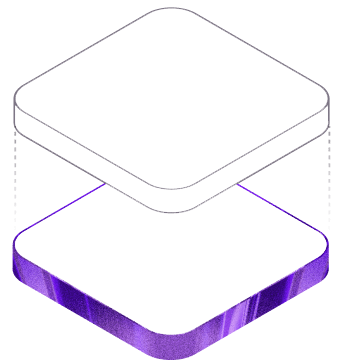
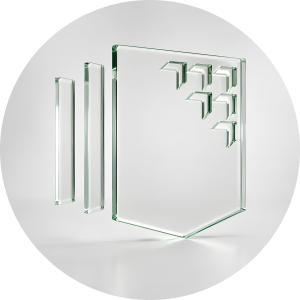
add hero section

diff --git a/src/components/Hero/index.tsx b/src/components/Hero/index.tsx
@@ -1,0 +1,42 @@
+import heroBackdrop from '~/assets/hero-backdrop.png'
+import heroImage from '~/assets/hero.png'
+import PlayIcon from '~/assets/play.svg?react'
+import config from './config'
+
+export const HeroSection = () => {
+  return (
+    <section
+      className="col-2 grid grid-cols-[minmax(auto,min(100%,900px))_auto] 
+      grid-rows-[minmax(100px,1fr)_auto_1fr_auto_1fr] items-center justify-between gap-4"
+    >
+      <h1 className="row-2 animate-enter [animation-delay:200ms] font-title text-8xl [&_em]:text-bronze [&_em]:not-italic">
+        {config.text.hero}
+      </h1>
+
+      <div className="row-2 grid animate-enter grid-cols-[minmax(40px,150px)_auto] items-center gap-4 [animation-delay:500ms]">
+        <img src={heroImage} alt="" className="w-full" />
+        <div className="font-title text-4xl">{config.text.motto}</div>
+        <div className="col-span-full grid grid-cols-2 gap-4">
+          <button className="btn btn-inverted">
+            <span>Try for free</span>
+          </button>
+          <button className="btn btn-outline">
+            <span>Try for free</span>
+          </button>
+        </div>
+      </div>
+
+      <div className="col-span-full row-4 grid">
+        <img src={heroBackdrop} alt="" className="col-1 row-1 w-full" />
+        <div className="col-1 row-1 flex items-center gap-4 place-self-center">
+          <div className="inline-grid size-20 cursor-pointer place-items-center rounded-full bg-darklime hover:bg-darklime/80">
+            <PlayIcon className="translate-x-0.5" />
+          </div>
+          <button className="btn">
+            <span>See how kvilon works</span>
+          </button>
+        </div>
+      </div>
+    </section>
+  )
+}

diff --git a/src/components/Hero/config.tsx b/src/components/Hero/config.tsx
@@ -1,0 +1,24 @@
+type Config = {
+  text: {
+    [key: string]: string
+  }
+}
+const config: Config = {
+  text: {
+    hero: (
+      <span>
+        Flexible <em>Management</em> System <em>for</em> Insurance{' '}
+        <em>Professionals</em>
+      </span>
+    ),
+    motto: (
+      <>
+        Stop managing chaos.
+        <br />
+        Start managing growth.
+      </>
+    ),
+  },
+}
+
+export default config

diff --git a/src/styles/theme.css b/src/styles/theme.css
@@ -1,13 +1,26 @@
 @theme {
   --color-olive: #cdef99;
+
+  --color-darklime: #cdef99;
   --color-darklime-200: #b3cc8d;
+
   --color-bronze: #af9061;
   --color-bronze-400: #a29890;
   --color-bronze-600: #56514d;
   --color-bronze-700: #3f3a36;
+
   --color-dark-stone: #23201e;
 
   --font-title: 'DM Sans', sans-serif;
   --font-text: 'Manrope', sans-serif;
   --font-extra: 'Montserrat', sans-serif;
+
+  --animate-enter: enter 1200ms cubic-bezier(0.16, 1, 0.3, 1) backwards;
+
+  @keyframes enter {
+    from {
+      opacity: 0;
+      transform: translateY(-100%);
+    }
+  }
 }

diff --git a/src/styles/components/button.css b/src/styles/components/button.css
@@ -1,9 +1,9 @@
 @layer components {
   .btn {
-    @apply inline-grid grid-cols-[1fr_2fr_1fr] grid-rows-[1fr_2fr_1fr] rounded-full bg-olive text-black cursor-pointer;
+    @apply inline-grid grid-cols-[1fr_2fr_1fr] grid-rows-[1fr_2fr_1fr] rounded-full bg-darklime text-black cursor-pointer;
 
     &:hover {
-      @apply bg-olive/80;
+      @apply bg-darklime/80;
     }
 
     & > * {
@@ -16,6 +16,14 @@
 
     &:hover {
       @apply bg-white/80;
+    }
+  }
+
+  .btn-inverted {
+    @apply bg-dark-stone text-white;
+
+    &:hover {
+      @apply bg-dark-stone/80;
     }
   }
 

diff --git a/src/App.tsx b/src/App.tsx
@@ -1,6 +1,6 @@
 import ChevronRight from '~/assets/chevron-right.svg?react'
 import Logo from '~/assets/kvilon-logo.svg?react'
-import { FreeTrialSection, Header } from '~/components'
+import { HeroSection, FreeTrialSection, Header } from '~/components'
 import config from '~/config'
 import './App.css'
 
@@ -8,6 +8,8 @@ const App = () => {
   return (
     <div className="grid min-h-screen grid-cols-[minmax(0,1fr)_minmax(auto,1780px)_minmax(0,1fr)] grid-rows-[auto_1fr] gap-x-4 bg-neutral-100">
       <Header />
+
+      <HeroSection />
 
       <div className="col-span-full my-2 flex gap-4 overflow-hidden border-t border-b border-stone-300 p-4 text-dark-stone/95">
         <div className="translate flex min-w-max gap-4">

diff --git a/src/components/index.ts b/src/components/index.ts
@@ -1,3 +1,5 @@
 export * from './Header'
 
 export * from './FreeTrialSection'
+
+export * from './Hero'